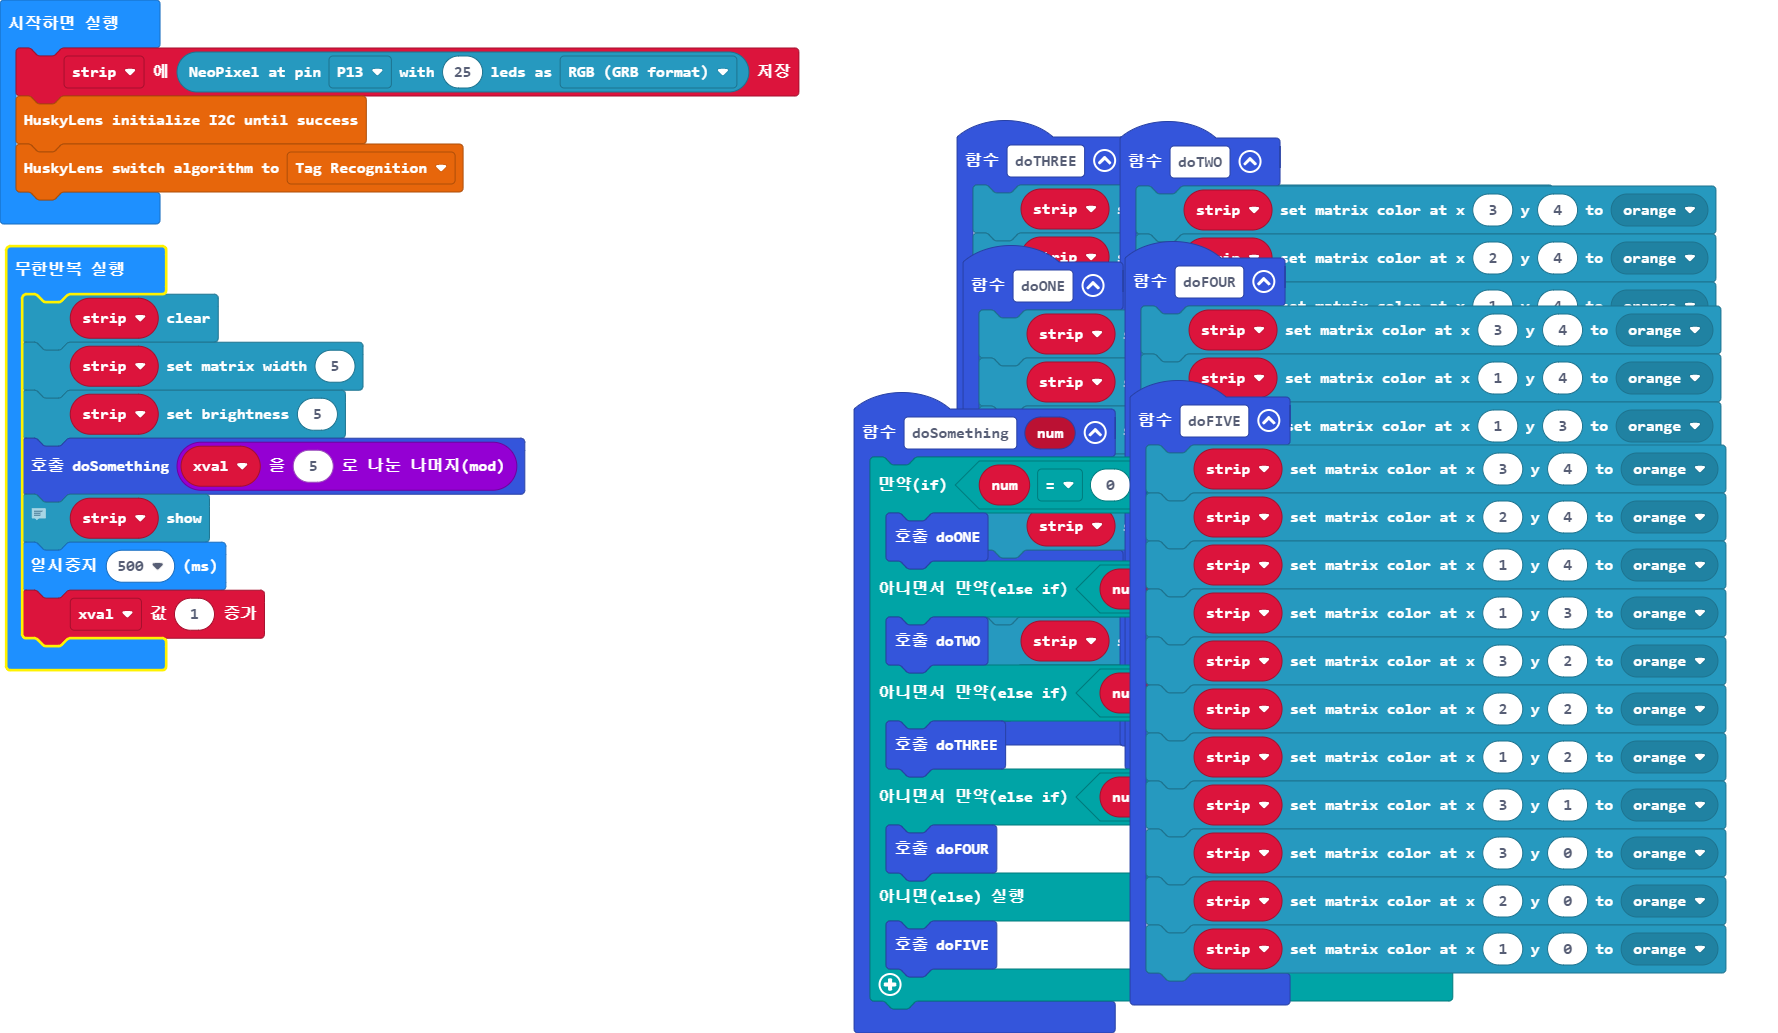
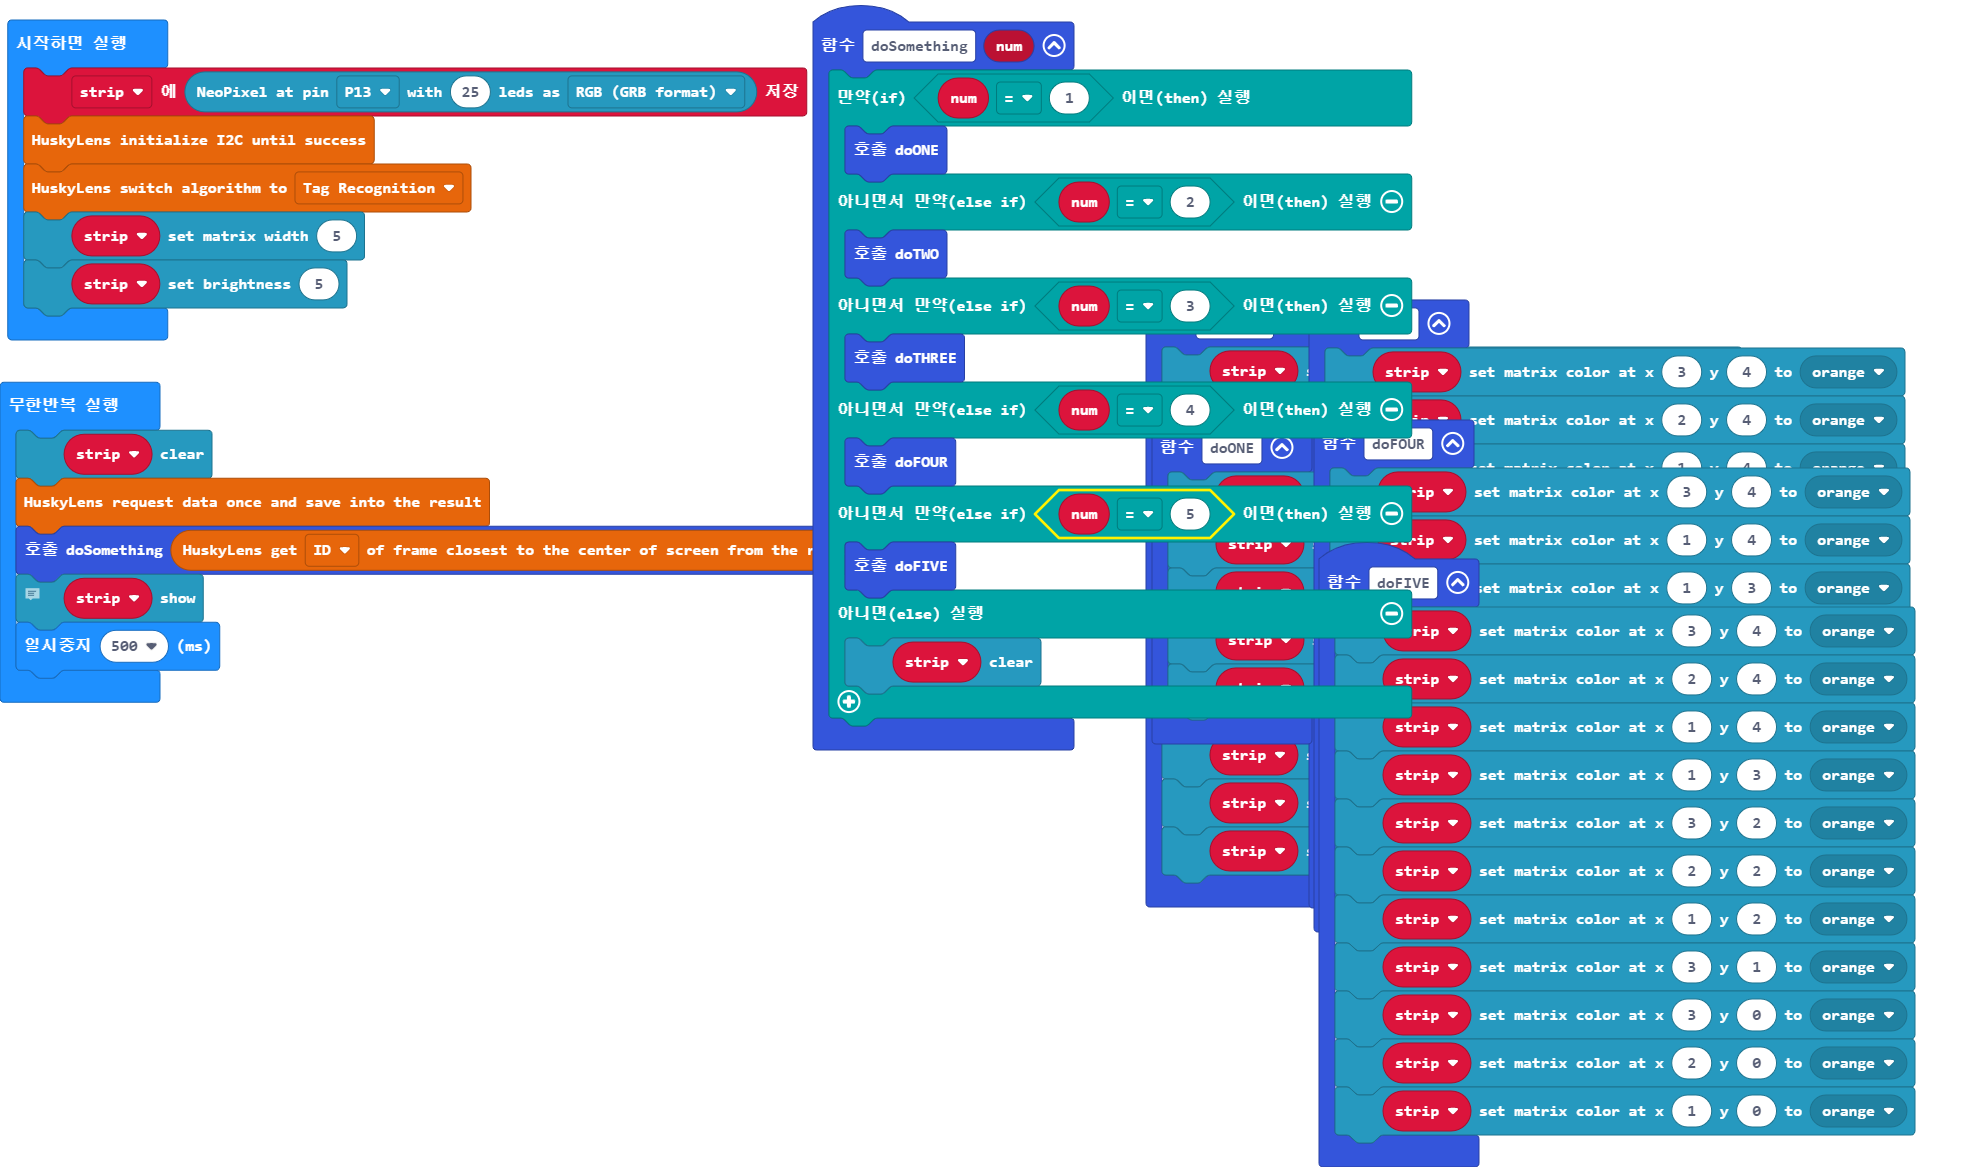
main.blocks, main.ts 업데이트하기

diff --git a/main.ts b/main.ts
@@ -23,16 +23,18 @@ function doFOUR () {
     strip.setMatrixColor(1, 0, neopixel.colors(NeoPixelColors.Orange))
 }
 function doSomething (num: number) {
-    if (num == 0) {
+    if (num == 1) {
         doONE()
-    } else if (num == 1) {
-        doTWO()
     } else if (num == 2) {
-        doTHREE()
+        doTWO()
     } else if (num == 3) {
+        doTHREE()
+    } else if (num == 4) {
         doFOUR()
-    } else {
+    } else if (num == 5) {
         doFIVE()
+    } else {
+        strip.clear()
     }
 }
 function doTHREE () {
@@ -68,18 +70,17 @@ function doONE () {
     strip.setMatrixColor(2, 3, neopixel.colors(NeoPixelColors.Orange))
     strip.setMatrixColor(2, 4, neopixel.colors(NeoPixelColors.Orange))
 }
-let xval = 0
 let strip: neopixel.Strip = null
 strip = neopixel.create(DigitalPin.P13, 25, NeoPixelMode.RGB)
 huskylens.initI2c()
 huskylens.initMode(protocolAlgorithm.ALGORITHM_TAG_RECOGNITION)
+strip.setMatrixWidth(5)
+strip.setBrightness(5)
 basic.forever(function () {
     strip.clear()
-    strip.setMatrixWidth(5)
-    strip.setBrightness(5)
-    doSomething(xval % 5)
+    huskylens.request()
+    doSomething(huskylens.readBox_s(Content3.ID))
     // strip.rotate(1)
     strip.show()
     basic.pause(500)
-    xval += 1
 })
